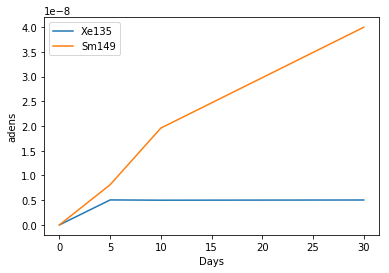
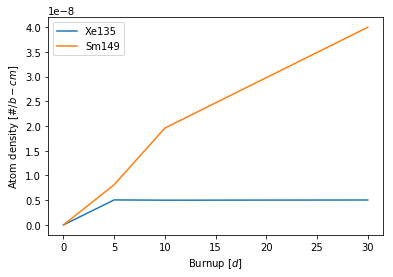
DOC Update documentation using figures with better labels

diff --git a/docs/examples/DepletionReader.rst b/docs/examples/DepletionReader.rst
@@ -248,18 +248,14 @@ replacements
 
 .. code:: 
     
-    >>> fuel.plot('days', 'adens', dayPoints, iso, 
-    ...           ylabel='Atomic Density [#/cc]');
-
-
+    >>> fuel.plot('days', 'adens', dayPoints, iso);
 
 
 .. image:: DepletionReader_files/DepletionReader_22_0.png
 
 .. code:: 
     
-    >>> fuel.plot('burnup', 'ingTox', names='Xe135', logy=True,
-    ...                  labelFmt="{iso}");
+    >>> fuel.plot('burnup', 'ingTox', names='Xe135', logy=True)
 
 .. image:: DepletionReader_files/DepletionReader_23_0.png
 
@@ -272,10 +268,9 @@ argument
 .. code:: 
 
     >>> dep.plot('burnup', 'adens', names=iso, 
-    >>>          materials=['fuel0', 'total'],
-    >>>          labelFmt="{mat}: {iso}", loglog=True);
-
-
+    ...          materials=['fuel0', 'total'],
+    ...          labelFmt="{mat}: {iso}", loglog=True,
+    ...          legend='above', ncol=2);
 
 .. image:: DepletionReader_files/DepletionReader_25_0.png
 
@@ -317,7 +312,7 @@ with ``bglass`` followed by at least one integer.
     >>> rc['depletion.metadataKeys'] = ['BU']
     >>> rc['depletion.materialVariables'] = ['ADENS']
     >>> rc['depletion.materials'] = [r'bglass\d+']
-    >>> 
+
     >>> bgReader = serpentTools.parsers.DepletionReader(depFile)
     >>> bgReader.read()
 
